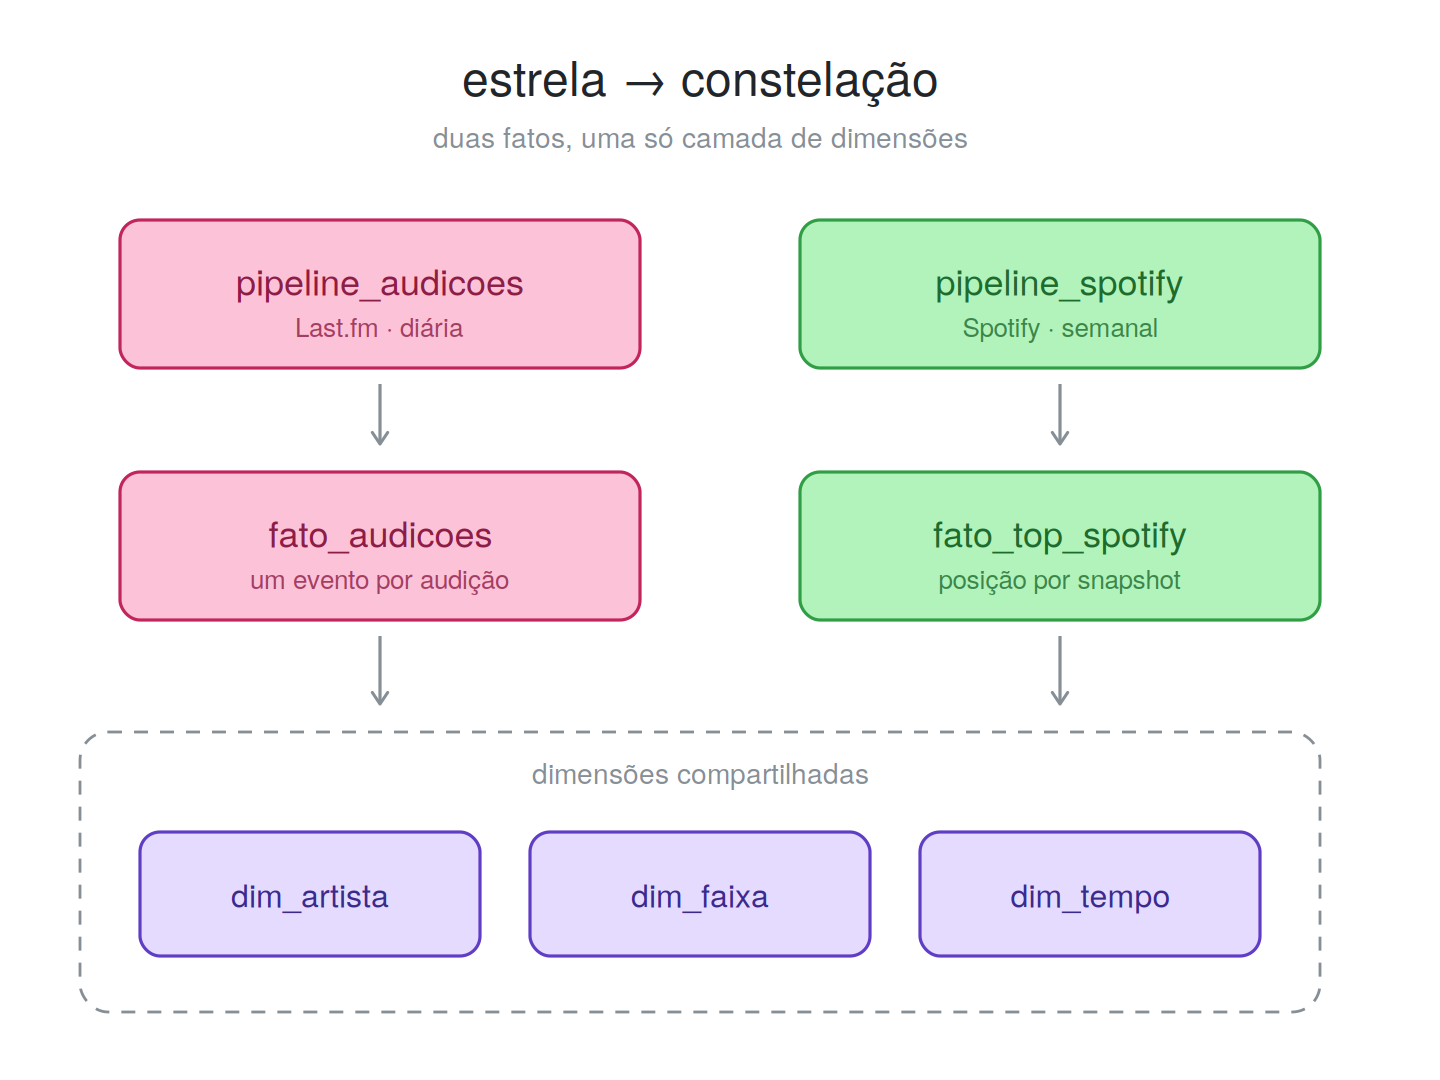
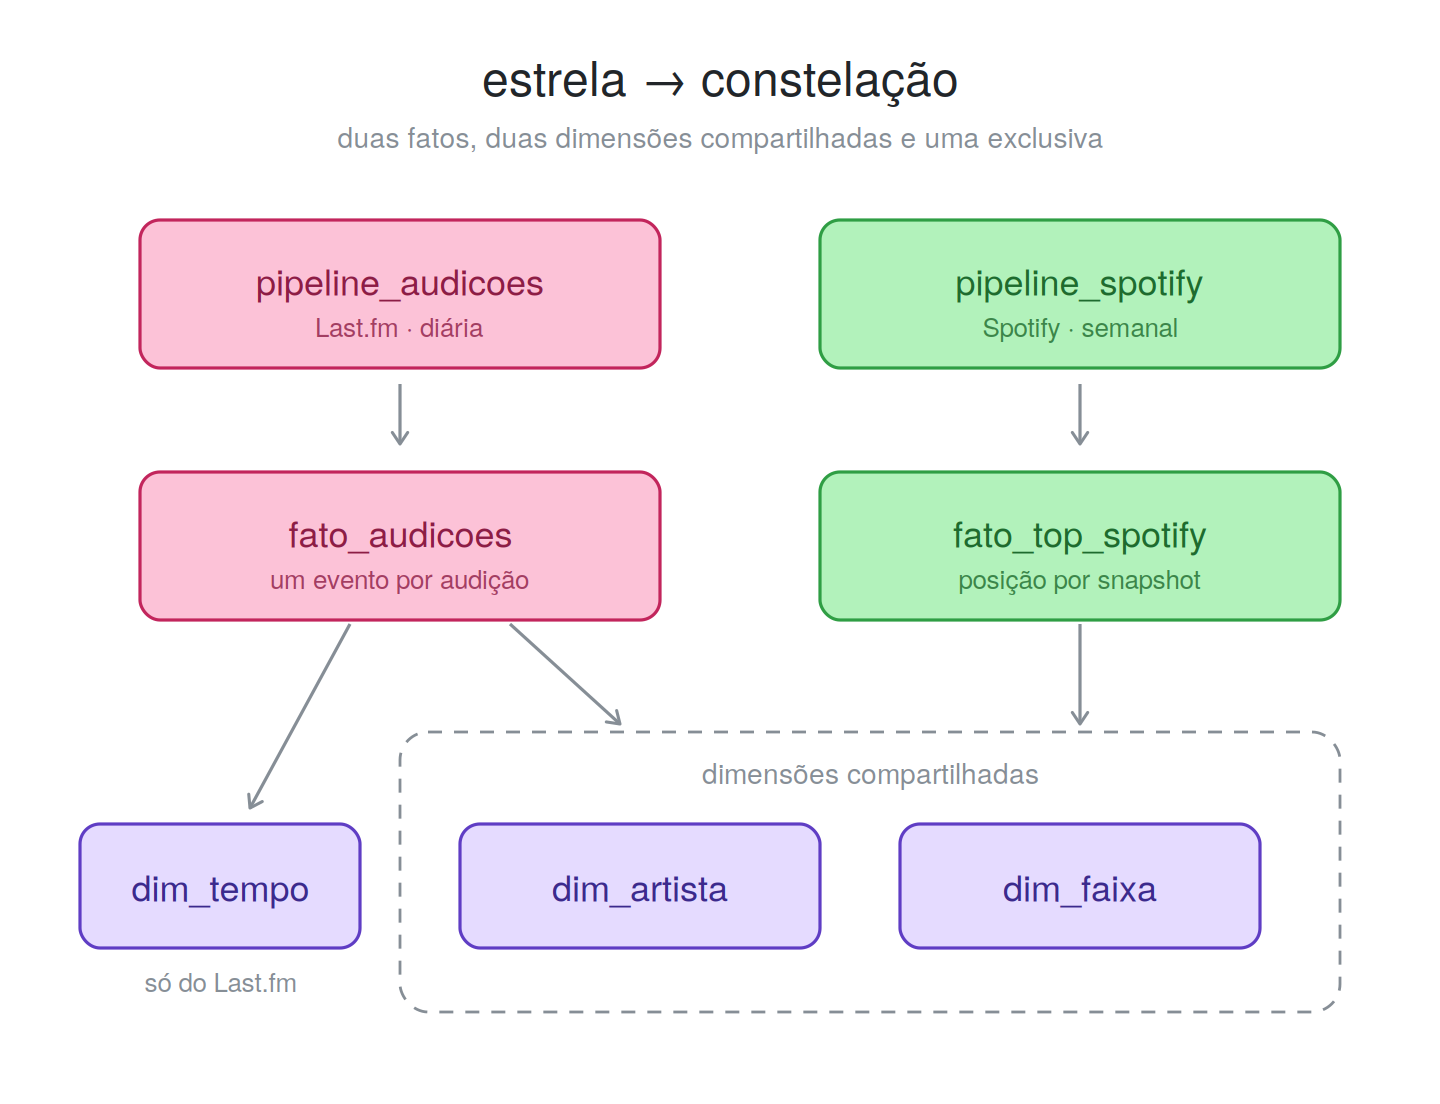
docs: record the time dimension asymmetry and fix stale references

diff --git a/README.md b/README.md
@@ -10,7 +10,7 @@ tudo agendado e monitorado pelo **Apache Airflow**. Segue a arquitetura medalhã
 (bronze → prata → ouro). O **Spotify** entra como segunda fonte (fase 2b), enriquecendo
 as dimensões via OAuth.
 
-> **Status:** ✅ completo e rodando. **Duas** pipelines no Airflow — Last.fm (`pipeline_audicoes`, `@daily`) e Spotify (`pipeline_spotify`, `@weekly`) — ambas bronze → prata → ouro. O histórico completo do Last.fm (~6 anos) está no warehouse, o Spotify enriquece as dimensões, e o **esquema constelação** (duas fatos sobre as mesmas dimensões) responde a pergunta que cruza as duas fontes.
+> **Status:** ✅ completo e rodando. **Duas** pipelines no Airflow — Last.fm (`pipeline_audicoes`, `@daily`) e Spotify (`pipeline_spotify`, `@weekly`) — ambas bronze → prata → ouro. O histórico completo do Last.fm (~6 anos) está no warehouse, o Spotify enriquece as dimensões, e o **esquema constelação** (duas fatos sobre dimensões compartilhadas) responde a pergunta que cruza as duas fontes.
 > O código de cada etapa foi escrito missão a missão, seguindo um roteiro de estudo — as 19 estão fechadas.
 
 ## Arquitetura
@@ -41,11 +41,11 @@ Além da ingestão do dia a dia (a DAG), a **carga histórica completa** (`backf
 
 - ✅ **Análise (ouro)** — o esquema estrela responde a pergunta que originou o projeto: *"qual foi meu artista mais ouvido em cada mês"* — `fato_audicoes` × `dim_faixa` × `dim_artista` × `dim_tempo`, uma linha por mês ao longo dos anos. A consulta está em [`db/consultas/artista_por_mes.sql`](db/consultas/artista_por_mes.sql).
 
-**Segunda fonte — Spotify (via OAuth).** Uma segunda DAG (`pipeline_spotify`, semanal) traz meus *tops* e minha biblioteca do Spotify pelo mesmo caminho bronze → prata → ouro. No warehouse, isso vira um **esquema constelação**: uma nova fato (`fato_top_spotify`) que compartilha as mesmas dimensões da `fato_audicoes`, além de enriquecer artistas e faixas com os ids do Spotify — casando as duas fontes **por nome**. O token OAuth roda sozinho dentro do container (sem navegador), reutilizando o *refresh token* em cache.
+**Segunda fonte — Spotify (via OAuth).** Uma segunda DAG (`pipeline_spotify`, semanal) traz meus *tops* e minha biblioteca do Spotify pelo mesmo caminho bronze → prata → ouro. No warehouse, isso vira um **esquema constelação**: uma nova fato (`fato_top_spotify`) que compartilha com a `fato_audicoes` as dimensões de artista e de faixa, além de enriquecer artistas e faixas com os ids do Spotify — casando as duas fontes **por nome**. O token OAuth roda sozinho dentro do container (sem navegador), reutilizando o *refresh token* em cache.
 
 - ✅ **O cruzamento entre as fontes (ouro)** — a constelação responde o que nenhuma das duas fatos responderia sozinha: o *top computado* pelo Spotify ao lado do *mais tocado* de verdade, na mesma janela de tempo. São duas consultas, porque são duas perguntas: [`cruzamento_lastfm_spotify.sql`](db/consultas/cruzamento_lastfm_spotify.sql) pergunta se o top se sustenta nas execuções (recortado no top 20, cabe numa tela) e [`cruzamento_completo.sql`](db/consultas/cruzamento_completo.sql) pergunta onde as duas discordam nos dois sentidos (`FULL OUTER`, sem recorte). As duas fontes concordam no topo e divergem conforme desce — e a `fato_top_spotify` guarda uma série histórica que a própria API do Spotify não guarda, porque ela só devolve o "top de agora".
 
-![Modelo em constelação: duas fatos sobre uma camada de dimensões compartilhada](docs/modelo_constelacao.png)
+![Modelo em constelação: duas fatos compartilhando as dimensões de artista e de faixa](docs/modelo_constelacao.png)
 
 - ✅ **Qualidade e alerta** — cada DAG termina numa task de **validação**: um punhado de perguntas sobre o que acabou de entrar (chave estrangeira órfã, dimensão duplicada, linha da prata que não chegou ao ouro) que precisam responder zero. Reprovou, a task fica vermelha e chega um **aviso por webhook** — só depois de esgotar as tentativas, para que falha que o retry resolve não vire barulho.
 
@@ -70,7 +70,7 @@ docs/        PRD e documentação
 > escritas missão a missão, foram para `arquivo/` quando pararam de refletir o que a DAG faz —
 > código aposentado é registro, não deve passar por estado atual.
 
-> Os scripts são rodados a partir da **raiz** do projeto (ex.: `python spotify/extrair_spotify.py`).
+> Os scripts são rodados a partir da **raiz** do projeto (ex.: `python spotify/test_spotify.py`).
 
 ## Pré-requisitos
 

diff --git a/CLAUDE.md b/CLAUDE.md
@@ -29,9 +29,9 @@ O progresso vive numa **fonte única de verdade: o checklist "Roteiro" do `READM
 
 Repo público: https://github.com/vitoriasalgado/pipeline-audicoes
 
-Documentos-fonte das missões: `docs/roteiro_post.md` (passo a passo Missão 0→18, **local/gitignored**) e `docs/rascunho_post.md` (caderno de síntese do post, preenchido a cada missão).
+Documento-fonte das missões: `docs/roteiro_post.md` (passo a passo Missão 0→18, **local/gitignored**).
 
-Trabalho que **não** é missão (conserto de dívida técnica, ajuste de documentação) não entra no checklist do README nem no `rascunho_post.md` — a trilha de dívidas vive na §9.1 do PRD e é manutenção, não portfólio.
+Trabalho que **não** é missão (conserto de dívida técnica, ajuste de documentação) não entra no checklist do README — é manutenção, não portfólio.
 
 ## Arquitetura (o big picture)
 
@@ -93,7 +93,7 @@ Estrutura das pastas: `dags/` (as **duas** DAGs — `pipeline_audicoes` e `pipel
 
 **Critério de aposentadoria:** script que deixa de refletir o que a DAG faz vai para `arquivo/`. Já aconteceu com as duas cargas e as duas etapas do Spotify, que ficaram com `ON CONFLICT (nome)` e `UPDATE ... WHERE nome` depois que as DAGs passaram a usar `lower(nome)` e upsert.
 
-O `backfill.py` roda nos dois lugares sem edição: `python scripts/backfill.py` no host, ou `docker compose exec airflow-worker python /opt/airflow/scripts/backfill.py` no container. Scripts sempre rodados a partir da **raiz** do projeto (ex.: `python spotify/extrair_spotify.py`), pra os caminhos relativos e o `.cache` do spotipy resolverem certo.
+O `backfill.py` roda nos dois lugares sem edição: `python scripts/backfill.py` no host, ou `docker compose exec airflow-worker python /opt/airflow/scripts/backfill.py` no container. Scripts sempre rodados a partir da **raiz** do projeto (ex.: `python spotify/test_spotify.py`), pra os caminhos relativos e o `.cache` do spotipy resolverem certo.
 
 `db/schema.sql` descreve o **estado final** e é aplicado pelo compose só na criação do volume — **editar o arquivo não altera tabelas que já existem**. Toda mudança de schema em base povoada precisa de um par: o `schema.sql` atualizado (para clone novo) **e** um script em `db/migracoes/` (para as bases que já existem), rodado à mão no host. Sem o segundo, o clone novo funciona e o warehouse de verdade quebra — foi o que quase aconteceu com os índices por `lower(nome)` (migração `001`).
 

diff --git a/docs/PRD_Pipeline_Audicoes.md b/docs/PRD_Pipeline_Audicoes.md
@@ -180,7 +180,7 @@ Scope: `user-read-recently-played`. Devolve as **últimas ~50** reproduções co
 
 ## 5. Modelo de dados (esquema estrela / constelação)
 
-Duas tabelas de fato compartilhando as mesmas dimensões.
+Duas tabelas de fato compartilhando as dimensões de artista e de faixa.
 
 ![Modelo em constelação: as duas DAGs alimentam duas fatos, que compartilham dim_artista, dim_faixa e dim_tempo](modelo_constelacao.png)
 
@@ -192,6 +192,7 @@ Implementado em [`db/schema.sql`](../db/schema.sql). O que segue reflete o schem
 - `fato_audicoes` — grão: 1 scrobble (Last.fm). Colunas: `id`, `scrobble_uts`, `faixa_id` → `dim_faixa`, `tempo_id` → `dim_tempo`. `UNIQUE (scrobble_uts, faixa_id)` → idempotência.
 - `fato_top_spotify` — grão: 1 item no ranking de uma coleta. Colunas: `id`, `snapshot_date`, `time_range`, `tipo` (`track`|`artist`), `posicao`, `faixa_id`, `artista_id`. `UNIQUE (snapshot_date, time_range, tipo, posicao)`. Permite ver a evolução do "top" do Spotify e cruzar com o mais-tocado do Last.fm.
   - As duas FKs são **nulas por construção**: linha de `tipo='track'` preenche `faixa_id` e deixa `artista_id` nulo, e vice-versa. Não há `CHECK` garantindo a exclusividade, mas a carga torna a linha órfã impossível: a FK é o id devolvido pelo upsert da dimensão, não um subselect que pode não casar (§6).
+  - **A `dim_tempo` não é compartilhada, e isso é escolha.** Só a `fato_audicoes` aponta para ela; a `fato_top_spotify` guarda `snapshot_date` como coluna própria. O motivo é o **grão**: a `dim_tempo` é de hora cheia, porque um scrobble acontece num instante; uma coleta do Spotify é um retrato semanal, e a hora dela não significa nada. Conformar exigiria ou inventar uma hora arbitrária para cada snapshot, ou rebaixar a `dim_tempo` para o dia e perder a análise por horário — que é uma das perguntas da §1. Então a constelação compartilha **duas** dimensões (`dim_artista`, `dim_faixa`), não três. Assimetria declarada, não esquecimento.
 
 **Dimensões (enriquecidas com Spotify)**
 - `dim_artista` (`id`, `nome` **UNIQUE**, `mbid`, `spotify_artist_id`)
